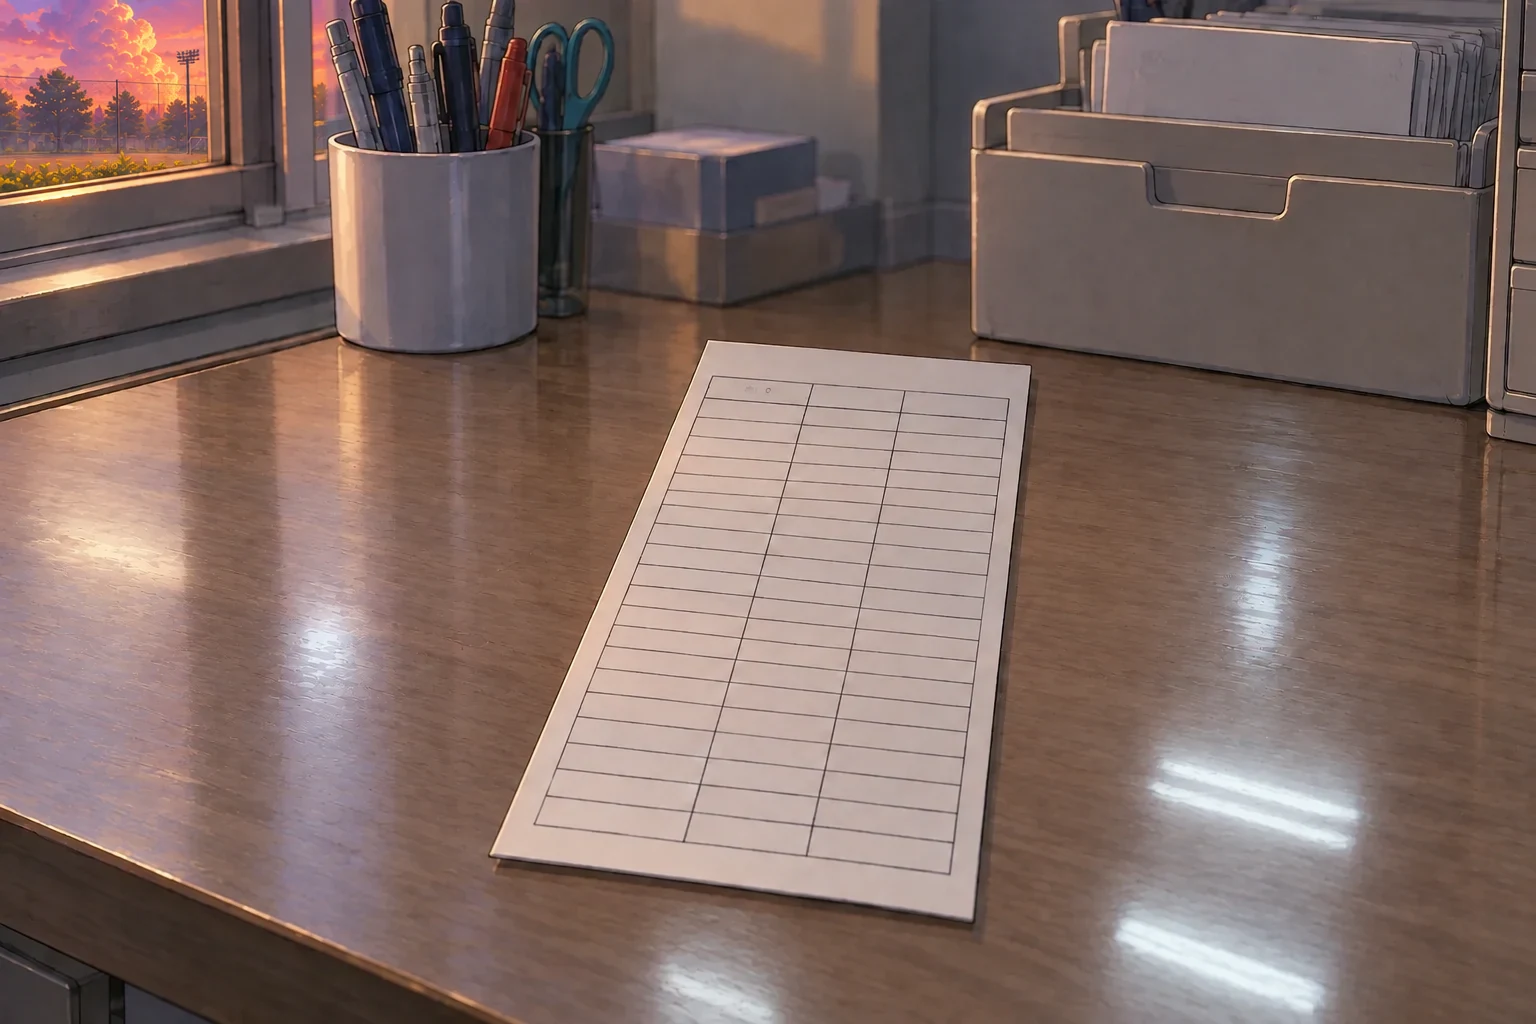
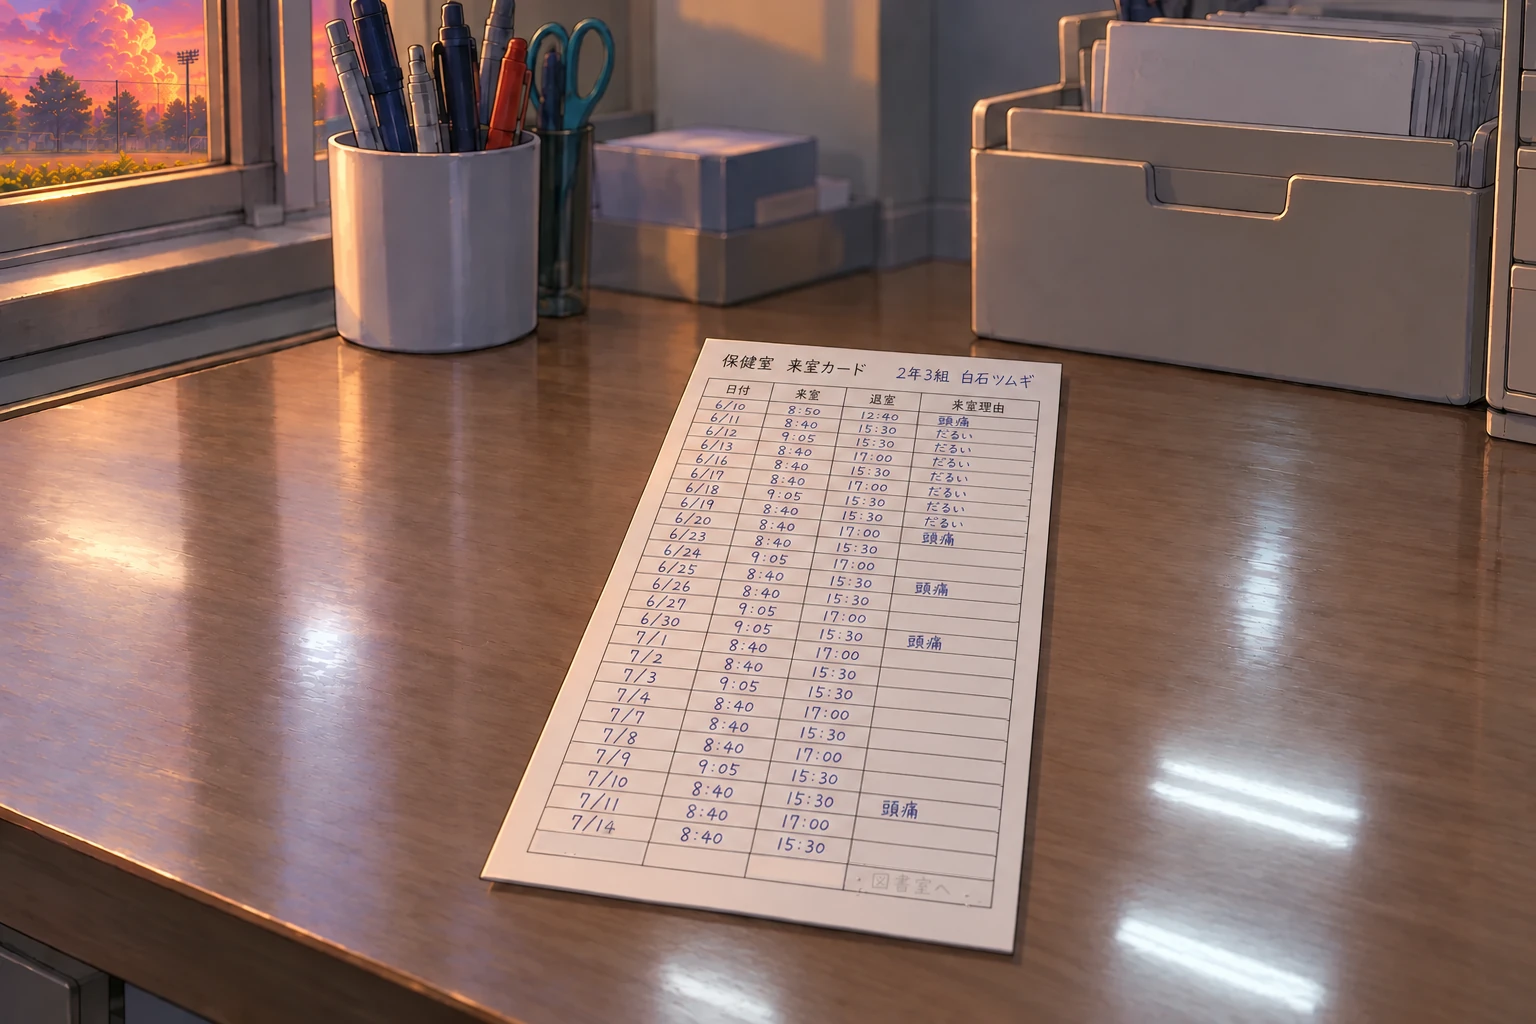
来室カードの絵を、謎解きどおりの書き込みに（見つけたとき・ほどけたあとの2枚）

diff --git a/index.html b/index.html
@@ -4900,7 +4900,7 @@
     },
     shelfItem(saved) {
       return saved
-        ? { thumb: 'ci_card_blank', title: '最後の行まで書いた来室カード', body: `<img class="cg" src="img/ci_card_blank.webp" alt="来室カード"><p>空いていた最後の行に、ツムギの字。「7/15　退室　18:30」。来室理由の欄には、「図書室へ」。</p>` }
+        ? { thumb: 'ci_card_done', title: '最後の行まで書いた来室カード', body: `<img class="cg" src="img/ci_card_done.webp" alt="最後の行まで書いた来室カード"><p>空いていた最後の行に、ツムギの字。「7/15　退室　18:30」。来室理由の欄には、「図書室へ」。</p>` }
         : { thumb: 'ci_card_blank', title: '保健室の来室カード', body: `<img class="cg" src="img/ci_card_blank.webp" alt="来室カード"><p>最後の一行だけ空欄。来室理由の欄に、消しゴムで消した「図書室へ」の跡。</p>` };
     },
     async talk() {
